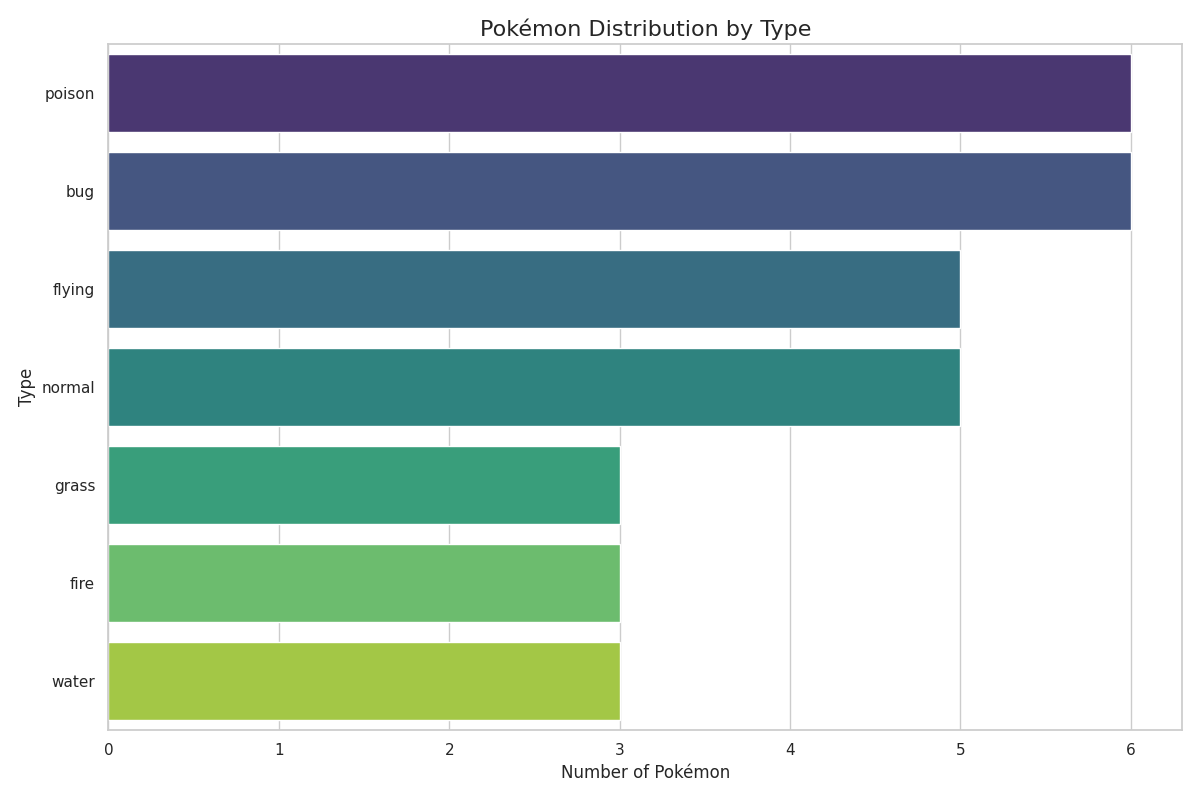
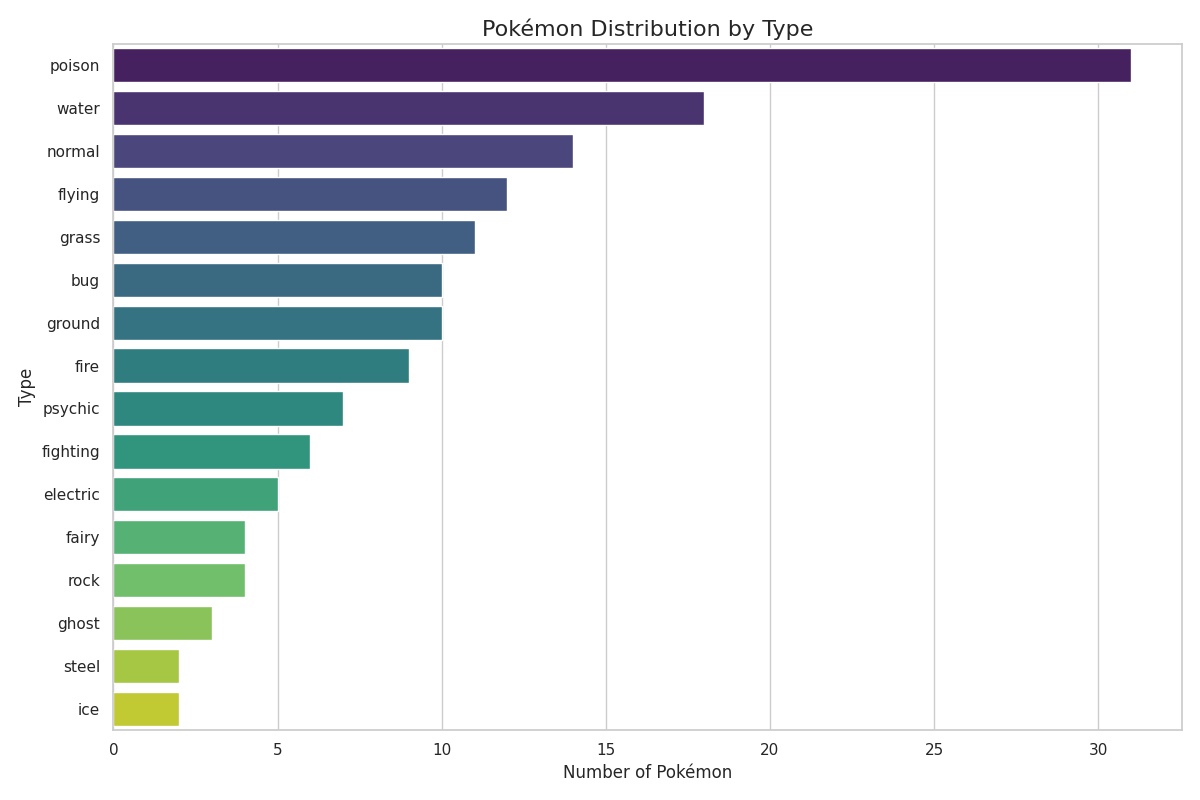
fix: adjusts flow execution and log records

diff --git a/src/transformer.py b/src/transformer.py
@@ -12,6 +12,8 @@ class DataTransformer:
         pokemon_dataframe["Category"] = pokemon_dataframe["Base Experience"].apply(
             lambda x: "Weak" if x < 50 else "Medium" if x < 100 else "Strong"
         )
+        self.logger.info("Pokemon experience categorized.")
+        self.logger.info(f"Pokemon experience: \n {pokemon_dataframe}")
         return pokemon_dataframe
 
     def count_pokemon_by_type(self, pokemon_dataframe: pd.DataFrame) -> pd.DataFrame:
@@ -20,6 +22,7 @@ class DataTransformer:
         pokemon_count_by_type = exploded_df["Types"].value_counts().reset_index()
         pokemon_count_by_type.columns = ["Type", "Count"]
         self.logger.info("Type analysis complete.")
+        self.logger.info(f"Pokemon count by type: \n {pokemon_count_by_type}")
         return pokemon_count_by_type
 
     def calculate_type_statistics(
@@ -40,6 +43,7 @@ class DataTransformer:
         )
         type_statistics = type_statistics.round(2)
         self.logger.info("Type statistics calculation complete.")
+        self.logger.info(f"Type statistics: \n {type_statistics}")
         return type_statistics
 
     def find_top_pokemon(self, pokemon_dataframe: pd.DataFrame) -> pd.DataFrame:
@@ -48,4 +52,15 @@ class DataTransformer:
             "Base Experience", ascending=False
         ).head(5)
         self.logger.info("Top Pokemon found.")
+        self.logger.info(f"Top Pokemon: \n {top_pokemon}")
         return top_pokemon
+
+
+    def transform_pokemon_data(self, pokemon_dataframe: pd.DataFrame) -> tuple[pd.DataFrame, pd.DataFrame, pd.DataFrame, pd.DataFrame]:
+        self.logger.info("Transforming Pokemon data")
+        pokemon_dataframe = self.categorize_experience(pokemon_dataframe)
+        pokemons_by_type_dataframe = self.count_pokemon_by_type(pokemon_dataframe)
+        pokemons_type_statistics_dataframe = self.calculate_type_statistics(pokemon_dataframe)
+        pokemons_top_5_dataframe = self.find_top_pokemon(pokemon_dataframe)
+        self.logger.info("Pokemon data transformation complete.")
+        return pokemon_dataframe, pokemons_by_type_dataframe, pokemons_type_statistics_dataframe, pokemons_top_5_dataframe

diff --git a/main.py b/main.py
@@ -12,25 +12,21 @@ logger = logging.getLogger(__name__)
 def main():
     try:
         extractor = PokemonExtractor(logger)
-        pokemons_data = extractor.fetch_pokemon_data(limit=20)
+        pokemons_data = extractor.fetch_pokemon_data(limit=100)
         pokemons_dataframe = extractor.build_pokemons_dataframe(pokemons_data)
-        logger.info(f"Pokemon dataframe: \n {pokemons_dataframe}")
 
-        transformer = DataTransformer(logger)
-        pokemons_dataframe = transformer.categorize_experience(pokemons_dataframe)
-        logger.info(f"Categorized Pokemon experience: \n {pokemons_dataframe}")
+        (
+            pokemons_dataframe,
+            pokemons_by_type_dataframe,
+            pokemons_type_statistics_dataframe,
+            pokemons_top_5_dataframe,
+        ) = DataTransformer(logger).transform_pokemon_data(pokemons_dataframe)
 
-        pokemons_by_type_dataframe = transformer.count_pokemon_by_type(pokemons_dataframe)
-        logger.info(f"Pokemon count by type: \n {pokemons_by_type_dataframe}")
-
-        pokemons_type_statistics_dataframe = transformer.calculate_type_statistics(pokemons_dataframe)
-        logger.info(f"Pokemon type statistics: \n {pokemons_type_statistics_dataframe}")
-
-        pokemons_top_5_dataframe = transformer.find_top_pokemon(pokemons_dataframe)
-        logger.info(f"Top 5 Pokemon: \n {pokemons_top_5_dataframe}")
-
-        reporter = DataReporter(logger)
-        reporter.generate_all_reports(pokemons_by_type_dataframe, pokemons_top_5_dataframe, pokemons_type_statistics_dataframe)
+        DataReporter(logger).generate_all_reports(
+            pokemons_by_type_dataframe,
+            pokemons_top_5_dataframe,
+            pokemons_type_statistics_dataframe,
+        )
 
     except Exception as e:
         logger.error(e)
@@ -38,4 +34,3 @@ def main():
 
 if __name__ == "__main__":
     main()
-    

diff --git a/task_list.md b/task_list.md
@@ -43,6 +43,6 @@
 ### Tarefa 4: Pipeline Automatizado
 
 - [x] **Script Modular:** O código está organizado em módulos (ex: `extractor.py`, `transformer.py`, `reporter.py`).
-- [ ] **Script Principal:** Um script principal (ex: `main.py`) executa todas as tarefas em sequência.
+- [x] **Script Principal:** Um script principal (ex: `main.py`) executa todas as tarefas em sequência.
 - [x] **Implementação de Logs:** A biblioteca `logging` é utilizada para registrar o progresso do pipeline e os principais passos.
 - [ ] **Tratamento de Erros:** O pipeline lida com possíveis erros (ex: falhas na chamada da API, dados faltantes) usando `try...except`.
